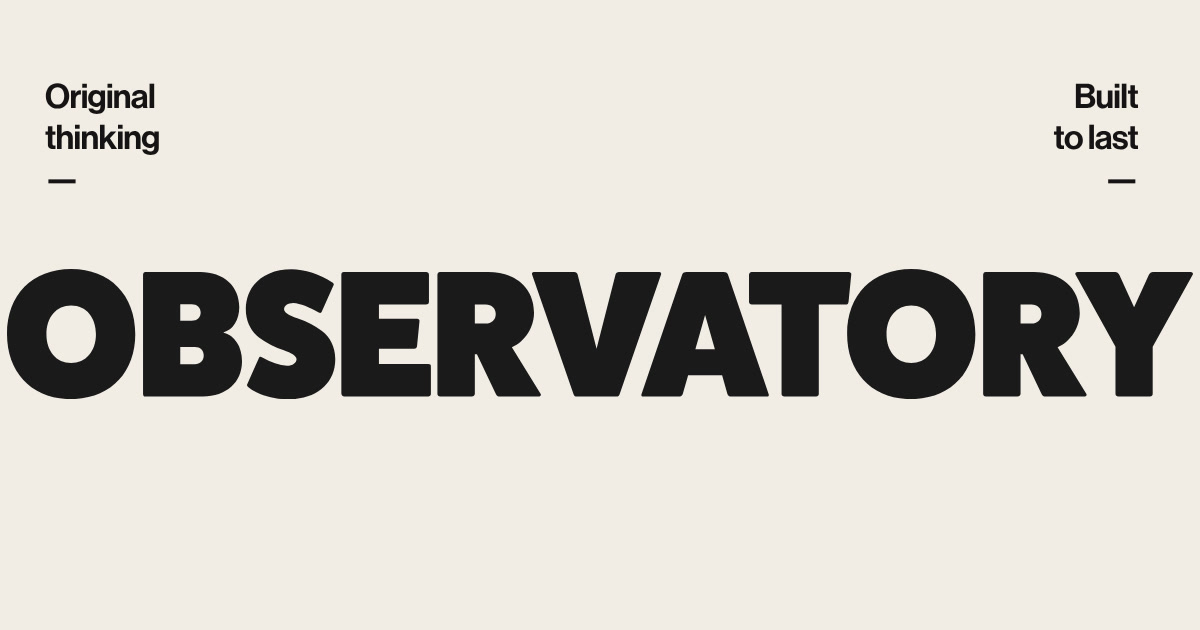
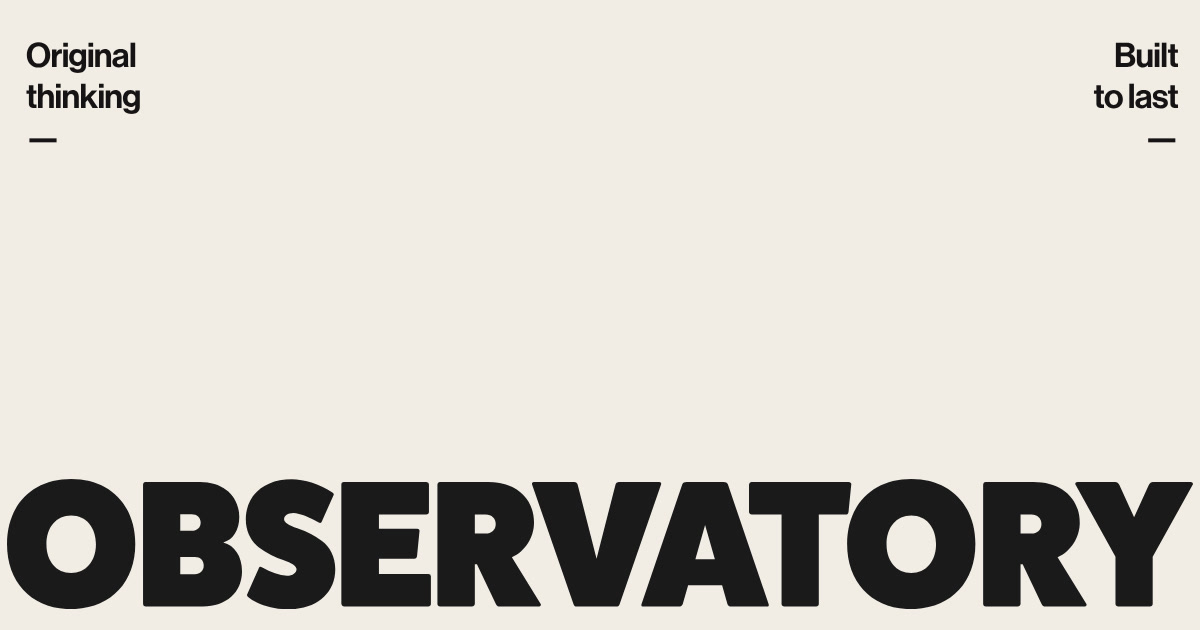
Update share preview image layout
Claude-Session: https://claude.ai/code/session_01W9XA6XP7dSGw9ULdgr18Gy

diff --git a/originalthinking/index.html b/originalthinking/index.html
@@ -11,11 +11,11 @@
 <meta property="og:title" content="The Observatory · Original thinking. Built to last.">
 <meta property="og:description" content="A creative partnership proposal from The Observatory.">
 <meta property="og:url" content="https://www.theobservatory.je/originalthinking">
-<meta property="og:image" content="https://observatory-ben-hick.github.io/observatory-proposals/originalthinking/assets/og-originalthinking.jpg?v=2">
+<meta property="og:image" content="https://observatory-ben-hick.github.io/observatory-proposals/originalthinking/assets/og-originalthinking.jpg?v=3">
 <meta property="og:image:width" content="1200">
 <meta property="og:image:height" content="630">
 <meta name="twitter:card" content="summary_large_image">
-<meta name="twitter:image" content="https://observatory-ben-hick.github.io/observatory-proposals/originalthinking/assets/og-originalthinking.jpg?v=2">
+<meta name="twitter:image" content="https://observatory-ben-hick.github.io/observatory-proposals/originalthinking/assets/og-originalthinking.jpg?v=3">
 <style>html,body{margin:0;padding:0;background:#F1EDE5}[hidden]{display:none!important}img{max-width:100%}</style>
 <title>The Observatory · Original thinking</title>
 <meta name="description" content="A creative partnership proposal from The Observatory.">
